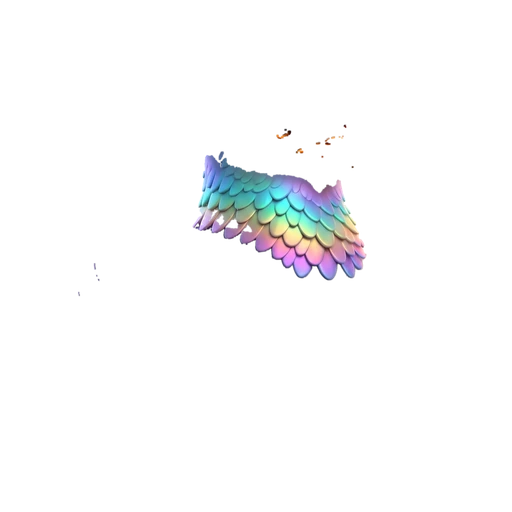
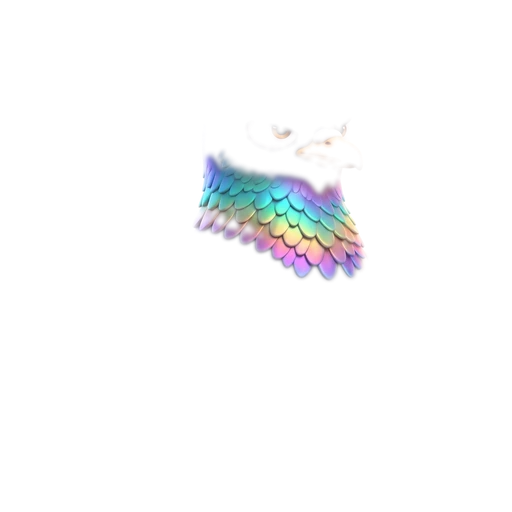
fix: аккуратный вырез просвета между ног, де-фринжинг и мягкая растушёвка шеи голубя

diff --git a/scripts/build-pigeon-assets.py b/scripts/build-pigeon-assets.py
@@ -4,11 +4,11 @@ scripts/build-pigeon-assets.py
 
 Генератор послойных ассетов персонажа для Telegram Mini App KOO KOO.
 Обрабатывает исходники из raw-assets/ и создаёт 15 прозрачных WebP-слоёв (512x512):
-  1. public/assets/pigeon/body-base.webp
-  2. public/assets/pigeon/neck-{uncommon|rare|epic|legendary|mythic}.webp (5 шт.)
+  1. public/assets/pigeon/body-base.webp (базовое тело без фона с чистым просветом между ног и де-фринжингом)
+  2. public/assets/pigeon/neck-{uncommon|rare|epic|legendary|mythic}.webp (5 шт., мягкий градиент наложения)
   3. public/assets/pigeon/eyes-{sparkle|crazy|cyber|boss|sleepy|anime|berserk|rich|reaper}.webp (9 шт.)
 
-Зависимости: Pillow, numpy
+Зависимости: Pillow, numpy, opencv-python (cv2)
 Запуск: py scripts/build-pigeon-assets.py
 """
 
@@ -18,11 +18,12 @@ import sys
 from pathlib import Path
 
 try:
-    from PIL import Image, ImageDraw, ImageFilter
+    from PIL import Image
     import numpy as np
-except ImportError:
-    print("Необходимы библиотеки Pillow и numpy.")
-    print("Установите их командой: pip install pillow numpy")
+    import cv2
+except ImportError as e:
+    print(f"Необходимы библиотеки Pillow, numpy и opencv-python ({e}).")
+    print("Установите их командой: pip install pillow numpy opencv-python")
     sys.exit(1)
 
 ROOT_DIR = Path(__file__).resolve().parent.parent
@@ -57,62 +58,98 @@ EYES_MAPPING = {
 
 def extract_base_body(base_img: Image.Image) -> tuple[Image.Image, np.ndarray]:
     """
-    Удаляет внешний белый фон и остаточную наземную тень у base.jpg с де-фринжингом
-    (устранением белого ореола) и мягким сглаживанием краёв без подрезки пальцев/когтей.
-    Возвращает RGBA изображение и булеву маску внешнего фона.
+    Удаляет внешний белый фон, наземную тень и белый просвет между ног,
+    сохраняя все пальцы/когти, пузо, глаза и мелкие перья по бокам силуэта.
+    Применяет de-fringing (устранение белого канта для тёмного фона #100919).
+    Возвращает RGBA-изображение (2048x2048) и булеву маску силуэта птицы fg_clean.
     """
     rgb = base_img.convert("RGB")
     arr = np.array(rgb, dtype=np.float32)
+    h, w, _ = arr.shape
 
     dist_from_white = np.sqrt(np.sum((255.0 - arr) ** 2, axis=-1))
     channel_diff = arr.max(axis=-1) - arr.min(axis=-1)
     bright = arr.mean(axis=-1)
 
-    # Кандидаты на внешний фон:
-    # 1. По всему кадру: пиксели близкие к чистому белому (dist < 38)
-    # 2. В нижней зоне (y > 1750): нейтральная светло-серая тень под ногами
-    #    (bright > 155, channel_diff < 30), не затрагивая тёмные/насыщенные когти и обувь
-    is_bg_candidate = (dist_from_white < 38)
-    bottom_shadow = (np.arange(arr.shape[0])[:, None] > 1750) & (bright > 155) & (channel_diff < 30)
-    is_bg_candidate = is_bg_candidate | bottom_shadow
+    # 1. Поиск пикселей фона
+    # Чистый белый фон (снаружи и в просветах)
+    is_white = (dist_from_white < 12.0)
 
-    # Заливка из 4 углов, чтобы найти внешний фон и не трогать белые элементы внутри подошв
-    bg_img = Image.fromarray((is_bg_candidate.astype(np.uint8) * 255)).copy()
-    for seed in [(0, 0), (0, bg_img.height - 1), (bg_img.width - 1, 0), (bg_img.width - 1, bg_img.height - 1)]:
-        ImageDraw.floodfill(bg_img, seed, 128)
+    # Наземная тень в нижней трети (y >= 1680)
+    is_ground_shadow = np.zeros((h, w), dtype=bool)
+    is_ground_shadow[1847:, :] = True  # ниже когтей птицы деталей нет вообще
+    y_grid, x_grid = np.ogrid[:h, :w]
+    # Тень слева от лап (x < 740, y >= 1680)
+    is_ground_shadow |= (y_grid >= 1680) & (x_grid < 740) & (bright > 160) & (channel_diff < 22)
+    # Тень справа от лап (x > 1460, y >= 1680)
+    is_ground_shadow |= (y_grid >= 1680) & (x_grid > 1460) & (bright > 160) & (channel_diff < 22)
+    # Тонкая тень под самыми кончиками когтей (y >= 1835)
+    is_ground_shadow |= (y_grid >= 1835) & (bright > 185) & (channel_diff < 20)
 
-    outer_bg = (np.array(bg_img) == 128)
-    fg_mask = Image.fromarray(((~outer_bg).astype(np.uint8) * 255))
+    bg_candidates = is_white | is_ground_shadow
+    num, labels, stats, centroids = cv2.connectedComponentsWithStats(bg_candidates.astype(np.uint8))
 
-    # Микро-эрозия (MinFilter 3) отсекает краевой 1-пиксельный JPEG-шум белого фона,
-    # затем GaussianBlur(1.0) даёт плавный субпиксельный антиалиасинг
-    smooth_mask = fg_mask.filter(ImageFilter.MinFilter(3)).filter(ImageFilter.GaussianBlur(1.0))
-    alpha = np.array(smooth_mask, dtype=np.float32) / 255.0
-    alpha[alpha < 0.03] = 0.0
+    outer_bg_label = labels[0, 0]
+    is_bg = (labels == outer_bg_label) | (y_grid >= 1847)
 
-    # Математический де-фринжинг: восстанавливаем истинный цвет контура без подмешанного белого фона
-    # C_obs = alpha * C_fg + (1 - alpha) * 255  ==>  C_fg = (C_obs - 255 * (1 - alpha)) / alpha
-    alpha_3d = np.maximum(alpha[:, :, None], 0.05)
-    fg_rgb = (arr - 255.0 * (1.0 - alpha[:, :, None])) / alpha_3d
-    fg_rgb = np.clip(fg_rgb, 0.0, 255.0)
+    # 2. Определение замкнутых просветов фона (в частности отверстия между ног под пузом)
+    for i in range(1, num):
+        if i == outer_bg_label:
+            continue
+        area = stats[i, cv2.CC_STAT_AREA]
+        cx, cy = centroids[i]
+        # Просвет между ног: y ~ [1580, 1780], x ~ [920, 1240]
+        if area > 100 and 1580 < cy < 1780 and 920 < cx < 1240:
+            is_bg |= (labels == i)
 
-    rgba = np.dstack([fg_rgb.astype(np.uint8), (alpha * 255.0).astype(np.uint8)])
+    # Предварительная маска птицы
+    fg_binary = ~is_bg
+
+    # Очистка изолированных мелких шумов в фоне (берём главное тело птицы)
+    num_fg, labels_fg, stats_fg, centroids_fg = cv2.connectedComponentsWithStats(fg_binary.astype(np.uint8))
+    main_fg_label = np.argmax(stats_fg[1:, cv2.CC_STAT_AREA]) + 1
+    fg_clean = (labels_fg == main_fg_label)
+
+    # 3. Субпиксельная альфа-маска с антиалиасингом контура (без подрезки краёв силуэта!)
+    # Внутри птицы при dist_from_white >= 32.0 альфа строго 1.0 (полная непрозрачность)
+    # На границе плавный переход 6.0 .. 32.0
+    t = np.clip((dist_from_white - 6.0) / (32.0 - 6.0), 0.0, 1.0)
+    alpha = t * t * (3.0 - 2.0 * t)
+    alpha[~fg_clean] = 0.0
+
+    # Мягкий фильтр для сглаживания субпиксельного антиалиасинга по контуру
+    alpha_smooth = cv2.GaussianBlur(alpha, (3, 3), 0.75)
+    alpha_smooth[~fg_clean] = 0.0
+
+    # 4. Профессиональный de-fringing (устранение белого ореола)
+    # Формула восстановления цвета без подмешанного белого фона:
+    # C_unblend = (C_obs - 255 * (1 - alpha)) / alpha
+    alpha_safe = np.maximum(alpha_smooth[:, :, None], 0.08)
+    unblended = (arr - 255.0 * (1.0 - alpha_smooth[:, :, None])) / alpha_safe
+    unblended = np.clip(unblended, 0.0, 255.0)
+
+    # Для крайних полупрозрачных пикселей (alpha < 0.65) подмешиваем цвет соседнего
+    # непрозрачного тела птицы (color inpainting), гарантируя отсутствие белых пикселей
+    mask_inpaint = ((alpha_smooth > 0.0) & (alpha_smooth < 0.65)).astype(np.uint8) * 255
+    inpainted = cv2.inpaint(arr.astype(np.uint8), mask_inpaint, 3, cv2.INPAINT_TELEA).astype(np.float32)
+
+    blend_factor = np.clip((alpha_smooth[:, :, None] - 0.08) / (0.65 - 0.08), 0.0, 1.0)
+    final_rgb = blend_factor * unblended + (1.0 - blend_factor) * inpainted
+    final_rgb = np.clip(final_rgb, 0.0, 255.0)
+
+    rgba = np.dstack([final_rgb.astype(np.uint8), (alpha_smooth * 255.0).astype(np.uint8)])
     base_rgba = Image.fromarray(rgba, "RGBA")
-    return base_rgba, outer_bg
+    return base_rgba, fg_clean
 
 
-def extract_diff_layer(
+def extract_neck_layer(
     variant_img: Image.Image,
     base_arr: np.ndarray,
-    outer_bg: np.ndarray,
-    roi_y: tuple[int, int],
-    roi_x: tuple[int, int] = (300, 1600),
-    diff_threshold: float = 22.0,
+    fg_clean: np.ndarray,
 ) -> Image.Image:
     """
-    Вычисляет diff-маску между вариантом и base.jpg, применяет порог шума,
-    морфологическое сглаживание и удаление изолированных артефактов JPEG,
-    оставляя только полезный слой (шея или глаза/брови).
+    Вычисляет маску наложения шеи с мягким растушёвыванием на границе с базовым телом.
+    Устраняет ступеньки/рубленые края, сохраняя сочную фактуру цветных перьев.
     """
     var_rgb = variant_img.convert("RGB")
     var_arr = np.array(var_rgb, dtype=np.float32)
@@ -120,39 +157,86 @@ def extract_diff_layer(
     # Максимальная разница по каналам
     diff = np.abs(var_arr - base_arr).max(axis=-1)
 
-    # Ограничение по зоне интереса (ROI), чтобы отсечь краевые артефакты обуви/куртки
-    roi_mask = np.zeros_like(diff, dtype=bool)
-    y_start, y_end = roi_y
-    x_start, x_end = roi_x
-    roi_mask[y_start:y_end, x_start:x_end] = True
+    # Мягкое пороговое значение:
+    # diff <= 10.0 -> шум сжатия JPEG (alpha = 0)
+    # diff >= 35.0 -> явное изменение цвета перьев (alpha = 1)
+    diff_min, diff_max = 10.0, 35.0
+    t = np.clip((diff - diff_min) / (diff_max - diff_min), 0.0, 1.0)
+    smooth_diff = t * t * (3.0 - 2.0 * t)
 
-    # Бинарная маска изменений внутри ROI
-    raw_mask = (diff > diff_threshold) & roi_mask & (~outer_bg)
-    mask_img = Image.fromarray((raw_mask.astype(np.uint8) * 255))
+    # Плавное пространственное окно (без резких прямоугольных срезов)
+    h, w = diff.shape
+    y_coords = np.arange(h)[:, None]
+    x_coords = np.arange(w)[None, :]
 
-    # Морфологическое открытие: MinFilter(3) удаляет 1-2 пиксельный шум сжатия JPEG,
-    # затем MaxFilter(7) восстанавливает и слегка расширяет контур для бесшовного наложения,
-    # затем GaussianBlur(1.4) даёт мягкий полупрозрачный край без лесенок.
-    cleaned = (
-        mask_img.filter(ImageFilter.MinFilter(3))
-        .filter(ImageFilter.MaxFilter(7))
-        .filter(ImageFilter.GaussianBlur(1.4))
-    )
+    # Плавный переход сверху (y ~ 450..530) и снизу у куртки (y ~ 1080..1180)
+    y_top = np.clip((y_coords - 450) / 80.0, 0.0, 1.0)
+    y_bot = np.clip((1180 - y_coords) / 100.0, 0.0, 1.0)
+    y_w = y_top * y_bot
+    y_w = y_w * y_w * (3.0 - 2.0 * y_w)
 
-    alpha = np.array(cleaned, dtype=np.float32) / 255.0
-    # Обнуляем вне ROI
-    alpha[:y_start, :] = 0.0
-    alpha[y_end:, :] = 0.0
-    alpha[:, :x_start] = 0.0
-    alpha[:, x_end:] = 0.0
+    # Плавный переход слева и справа
+    x_left = np.clip((x_coords - 720) / 90.0, 0.0, 1.0)
+    x_right = np.clip((1500 - x_coords) / 90.0, 0.0, 1.0)
+    x_w = x_left * x_right
+    x_w = x_w * x_w * (3.0 - 2.0 * x_w)
 
-    rgba = np.dstack([var_arr.astype(np.uint8), (alpha * 255.0).astype(np.uint8)])
+    alpha_raw = smooth_diff * y_w * x_w
+
+    # Мягкая растушёвка (Gaussian blur sigma=8.5, ядро 35x35) для идеального слияния с телом
+    alpha_smooth = cv2.GaussianBlur(alpha_raw, (35, 35), 8.5)
+    # Ограничиваем контуром птицы и отсекаем микро-шум
+    alpha_smooth[~fg_clean] = 0.0
+    alpha_smooth[alpha_smooth < 0.01] = 0.0
+
+    rgba = np.dstack([var_arr.astype(np.uint8), (alpha_smooth * 255.0).astype(np.uint8)])
+    return Image.fromarray(rgba, "RGBA")
+
+
+def extract_eyes_layer(
+    variant_img: Image.Image,
+    base_arr: np.ndarray,
+    fg_clean: np.ndarray,
+) -> Image.Image:
+    """
+    Вычисляет маску наложения глаз/бровей с мягкими границами наложения.
+    """
+    var_rgb = variant_img.convert("RGB")
+    var_arr = np.array(var_rgb, dtype=np.float32)
+
+    diff = np.abs(var_arr - base_arr).max(axis=-1)
+
+    diff_min, diff_max = 12.0, 32.0
+    t = np.clip((diff - diff_min) / (diff_max - diff_min), 0.0, 1.0)
+    smooth_diff = t * t * (3.0 - 2.0 * t)
+
+    h, w = diff.shape
+    y_coords = np.arange(h)[:, None]
+    x_coords = np.arange(w)[None, :]
+
+    # Зона глаз/бровей: y ~ [240, 750], x ~ [780, 1500]
+    y_top = np.clip((y_coords - 240) / 60.0, 0.0, 1.0)
+    y_bot = np.clip((750 - y_coords) / 60.0, 0.0, 1.0)
+    y_w = y_top * y_bot
+    y_w = y_w * y_w * (3.0 - 2.0 * y_w)
+
+    x_left = np.clip((x_coords - 780) / 60.0, 0.0, 1.0)
+    x_right = np.clip((1500 - x_coords) / 60.0, 0.0, 1.0)
+    x_w = x_left * x_right
+    x_w = x_w * x_w * (3.0 - 2.0 * x_w)
+
+    alpha_raw = smooth_diff * y_w * x_w
+    alpha_smooth = cv2.GaussianBlur(alpha_raw, (9, 9), 2.0)
+    alpha_smooth[~fg_clean] = 0.0
+    alpha_smooth[alpha_smooth < 0.015] = 0.0
+
+    rgba = np.dstack([var_arr.astype(np.uint8), (alpha_smooth * 255.0).astype(np.uint8)])
     return Image.fromarray(rgba, "RGBA")
 
 
 def save_webp(img: Image.Image, out_path: Path):
     """
-    Ресайзит до целевого размера 512x512 с фильтром LANCZOS и сохраняет в WebP.
+    Ресайзит до целевого размера 512x512 с высококачественным фильтром LANCZOS и сохраняет в WebP.
     """
     resized = img.resize(TARGET_SIZE, Image.Resampling.LANCZOS)
     out_path.parent.mkdir(parents=True, exist_ok=True)
@@ -160,7 +244,7 @@ def save_webp(img: Image.Image, out_path: Path):
 
 
 def main():
-    print(f"=== Сборка ассетов персонажа KOO KOO ===")
+    print(f"=== Сборка ассетов персонажа KOO KOO (улучшенный маттинг и де-фринжинг) ===")
     print(f"Исходники: {RAW_DIR}")
     print(f"Вывод:     {OUT_DIR}")
     OUT_DIR.mkdir(parents=True, exist_ok=True)
@@ -172,24 +256,21 @@ def main():
 
     print("\n[1/3] Обработка базового тела body-base.webp...")
     base_raw = Image.open(base_path)
-    base_rgba, outer_bg = extract_base_body(base_raw)
+    base_rgba, fg_clean = extract_base_body(base_raw)
     base_out = OUT_DIR / "body-base.webp"
     save_webp(base_rgba, base_out)
     print(f"  ✓ Сохранено: {base_out.name} ({TARGET_SIZE[0]}x{TARGET_SIZE[1]})")
 
     base_arr = np.array(base_raw.convert("RGB"), dtype=np.float32)
 
-    print("\n[2/3] Обработка 5 слоёв шеи (neck)...")
+    print("\n[2/3] Обработка 5 слоёв шеи (neck) с мягким растушёвыванием...")
     for src_name, dst_name in NECK_MAPPING.items():
         src_path = RAW_DIR / src_name
         if not src_path.exists():
             print(f"  ⚠ Пропуск: {src_name} не найден")
             continue
         neck_raw = Image.open(src_path)
-        # Зона шеи: y ~ [450, 1250], x ~ [300, 1600]
-        neck_layer = extract_diff_layer(
-            neck_raw, base_arr, outer_bg, roi_y=(450, 1250), roi_x=(300, 1600), diff_threshold=20.0
-        )
+        neck_layer = extract_neck_layer(neck_raw, base_arr, fg_clean)
         dst_path = OUT_DIR / dst_name
         save_webp(neck_layer, dst_path)
         print(f"  ✓ {src_name} -> {dst_name}")
@@ -201,10 +282,7 @@ def main():
             print(f"  ⚠ Пропуск: {src_name} не найден")
             continue
         eyes_raw = Image.open(src_path)
-        # Зона глаз/бровей: y ~ [250, 750], x ~ [300, 1600]
-        eyes_layer = extract_diff_layer(
-            eyes_raw, base_arr, outer_bg, roi_y=(250, 750), roi_x=(300, 1600), diff_threshold=20.0
-        )
+        eyes_layer = extract_eyes_layer(eyes_raw, base_arr, fg_clean)
         dst_path = OUT_DIR / dst_name
         save_webp(eyes_layer, dst_path)
         print(f"  ✓ {src_name} -> {dst_name}")
